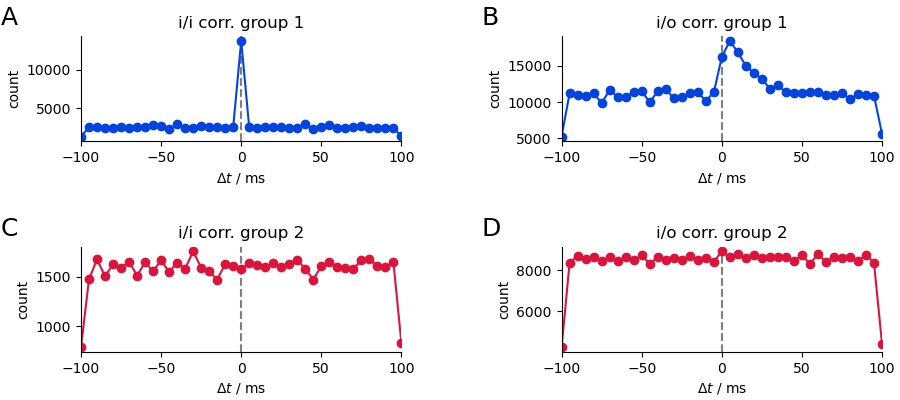
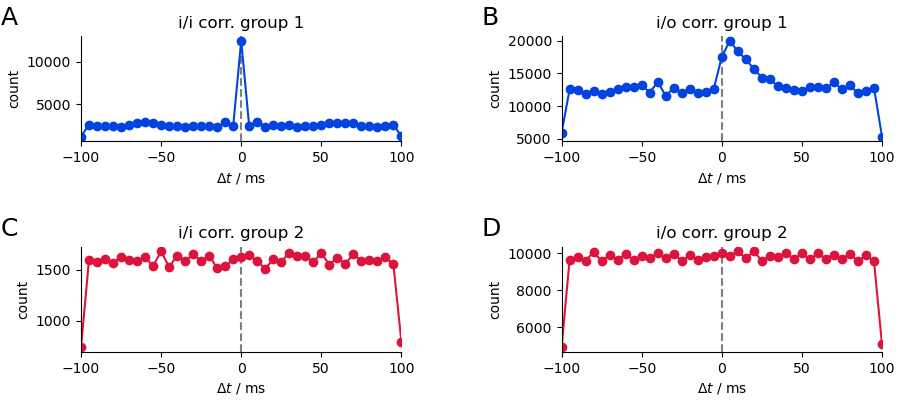
updated plots and added recovery for task 4d

diff --git a/src/pobc21_hw4.py b/src/pobc21_hw4.py
@@ -200,7 +200,7 @@ def binned_correlation(t1_, t2_, binsize, corr_range):
     return t_, corr_
 
 
-def experiment(*, sequence=False, jitter=0, alpha=1.1, t_sim=200, title='', plot_learning_window=False):
+def experiment(*, sequence=False, jitter=0, alpha=1.1, t_sim=200, title='', plot_learning_window=False, recovering_parameter=1):
     """
     Perform a single STDP experiment.
 
@@ -259,7 +259,8 @@ def experiment(*, sequence=False, jitter=0, alpha=1.1, t_sim=200, title='', plot
 
     # setup synapses
     tau_plus = 30 * ms
-    tau_minus = 30 * ms
+    # tau_minus = 30 * ms
+    tau_minus = 30 * ms * recovering_parameter
     lambda_ = 1 * pA
     w_0 = 100 * pA
     w_max = 200 * pA
@@ -546,7 +547,8 @@ if __name__ == '__main__':
     # experiment(title='task_b', plot_learning_window=True, sequence=True)
 
     # task 4d
-    experiment(title='task_b', plot_learning_window=True, alpha=1)
+    # experiment(title='task_b', plot_learning_window=True, alpha=1)
+    experiment(title='task_b', plot_learning_window=True, recovering_parameter=np.log(1.1))  # calling experiment with alpha = 1.1 but applying additional log(1.1) factor to tau_minus to recover behavior of task 4a
 
     # task 4e
     # experiment(title='task_b', plot_learning_window=True, jitter=15, t_sim=300)
